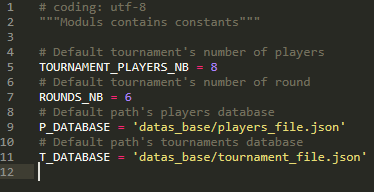
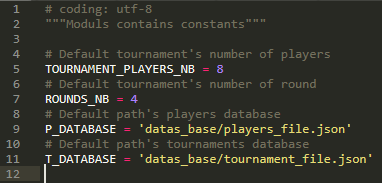
update

Changed region(s): [[0.0882, 0.2459, 1.0, 0.9563], [0.0, 0.0, 1.0, 0.9836], [0.7647, 0.9016, 0.7941, 0.929]]

diff --git a/models/constants.py b/models/constants.py
@@ -4,7 +4,7 @@
 # Default tournament's number of players
 TOURNAMENT_PLAYERS_NB = 8
 # Default tournament's number of round
-ROUNDS_NB = 6
+ROUNDS_NB = 4
 # Default path's players database
 P_DATABASE = 'datas_base/players_file.json'
 # Default path's tournaments database
